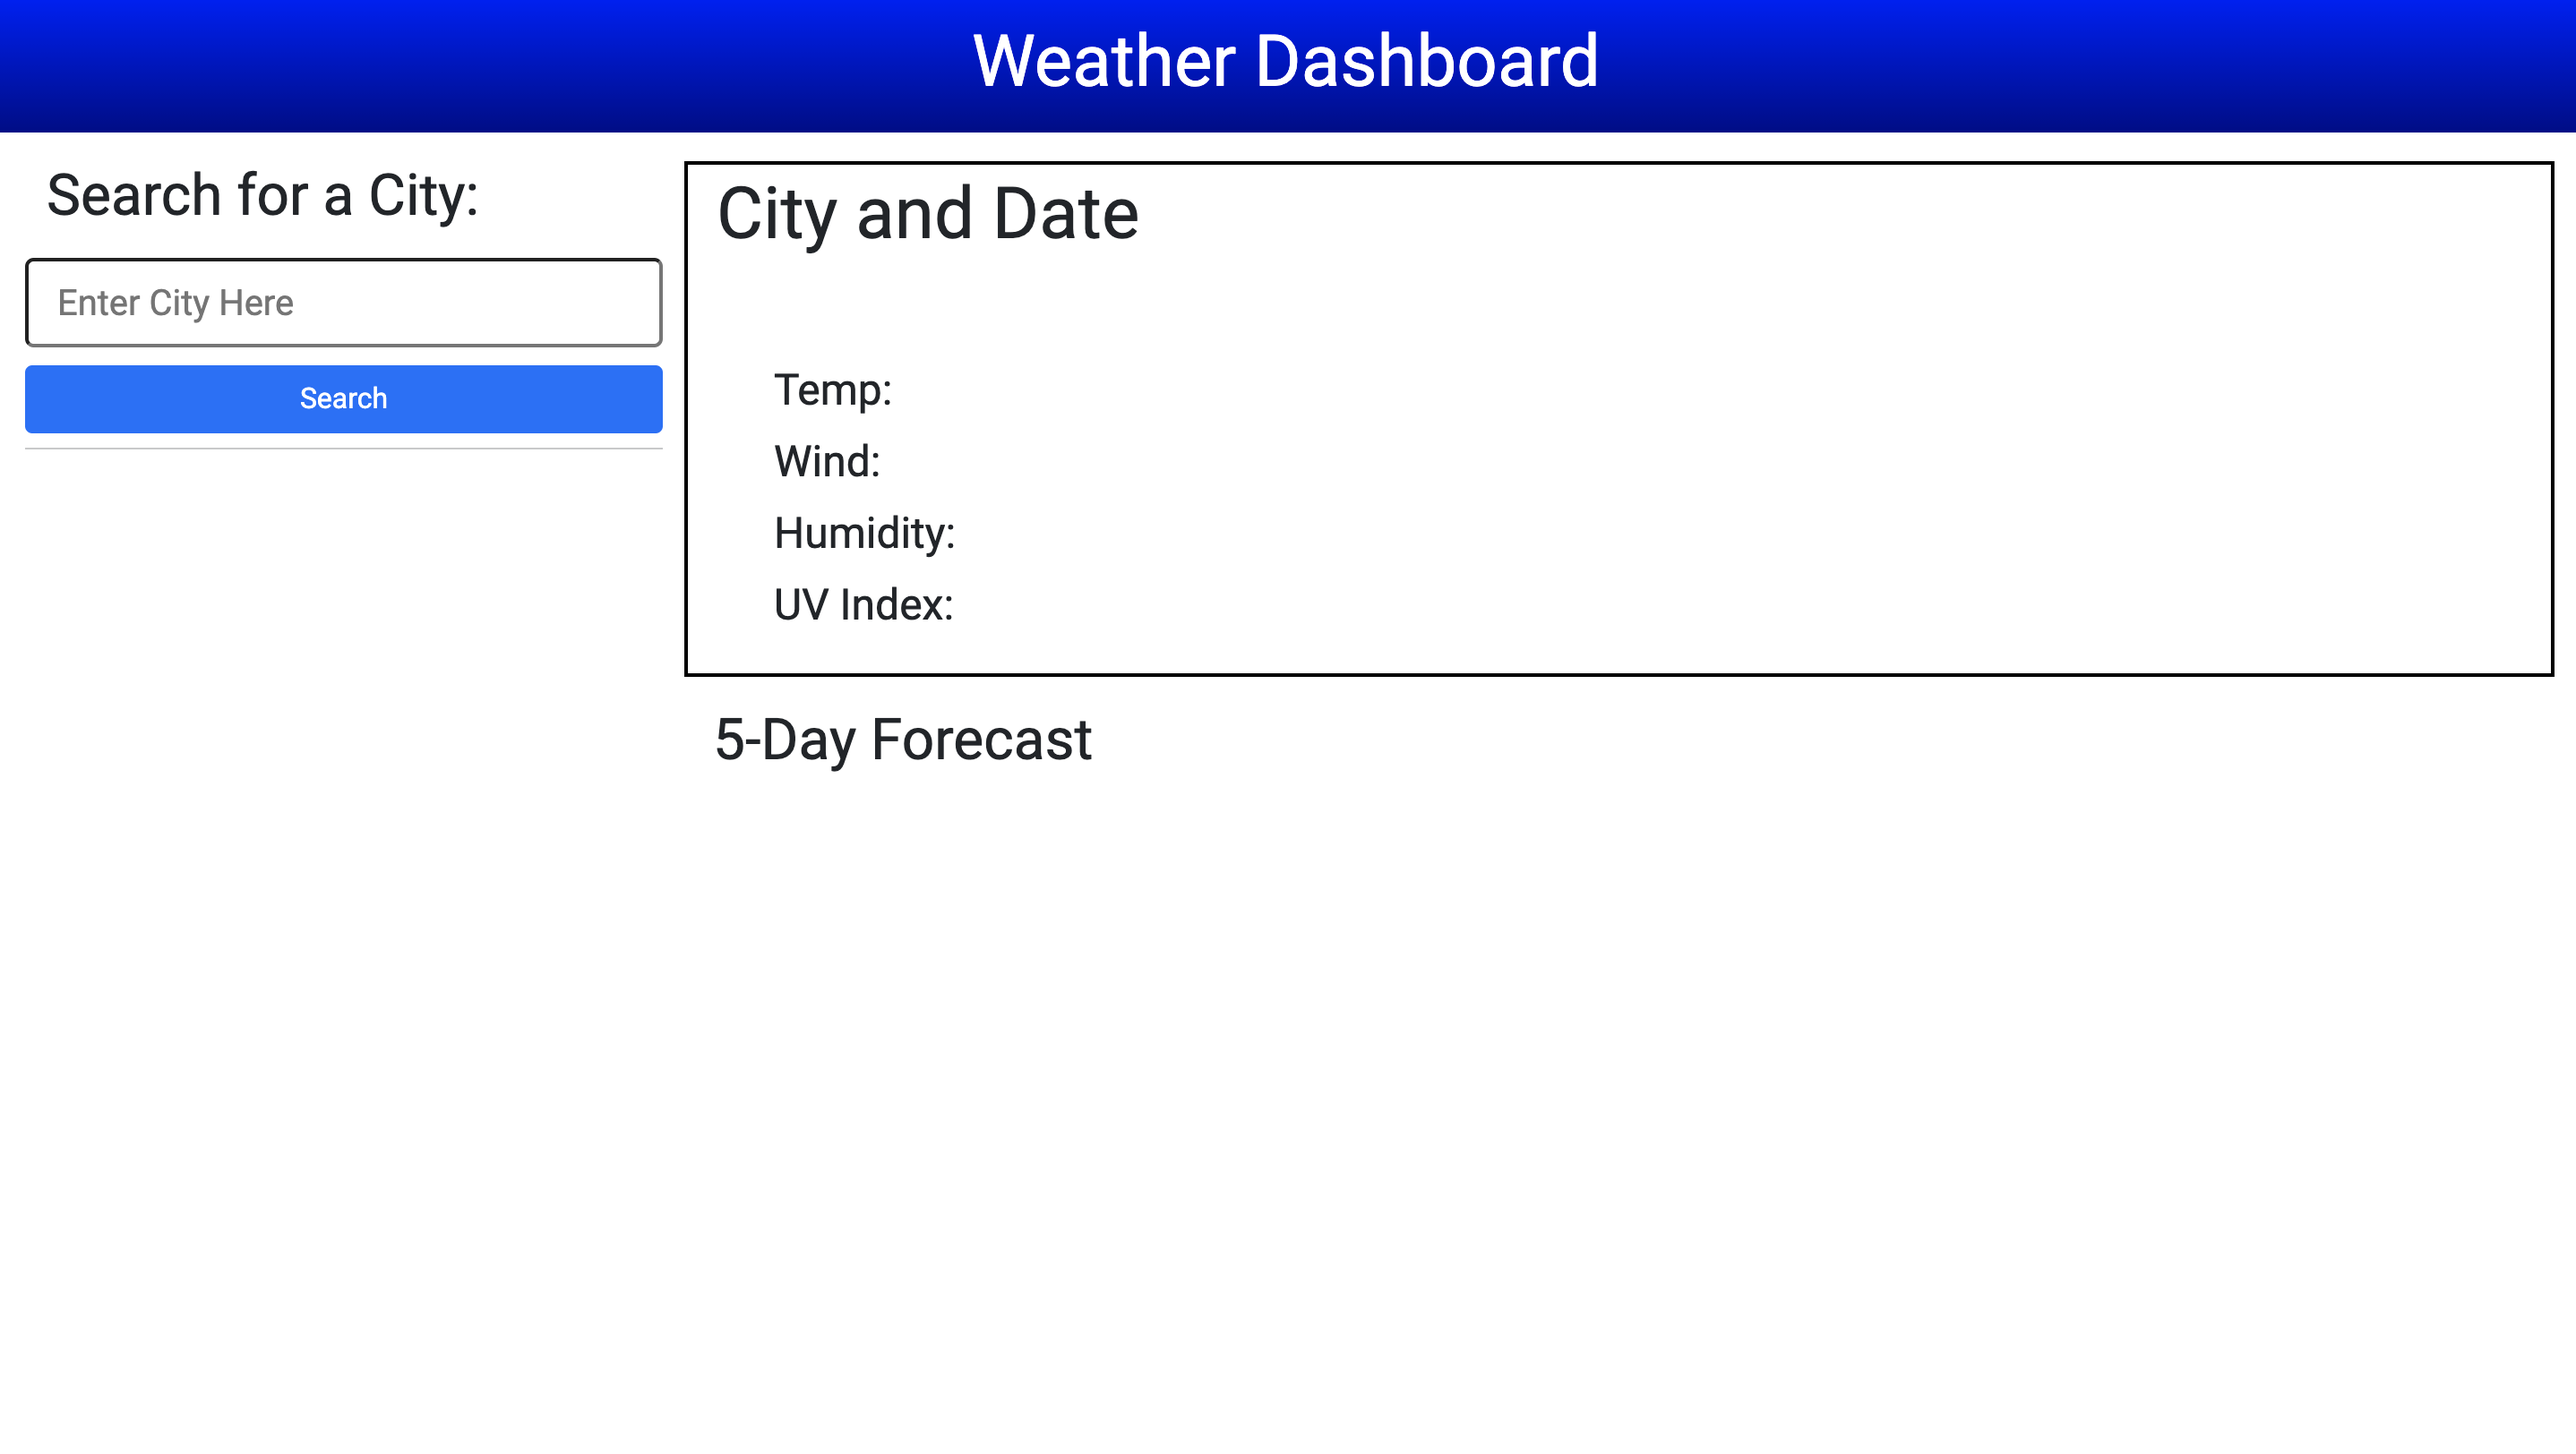
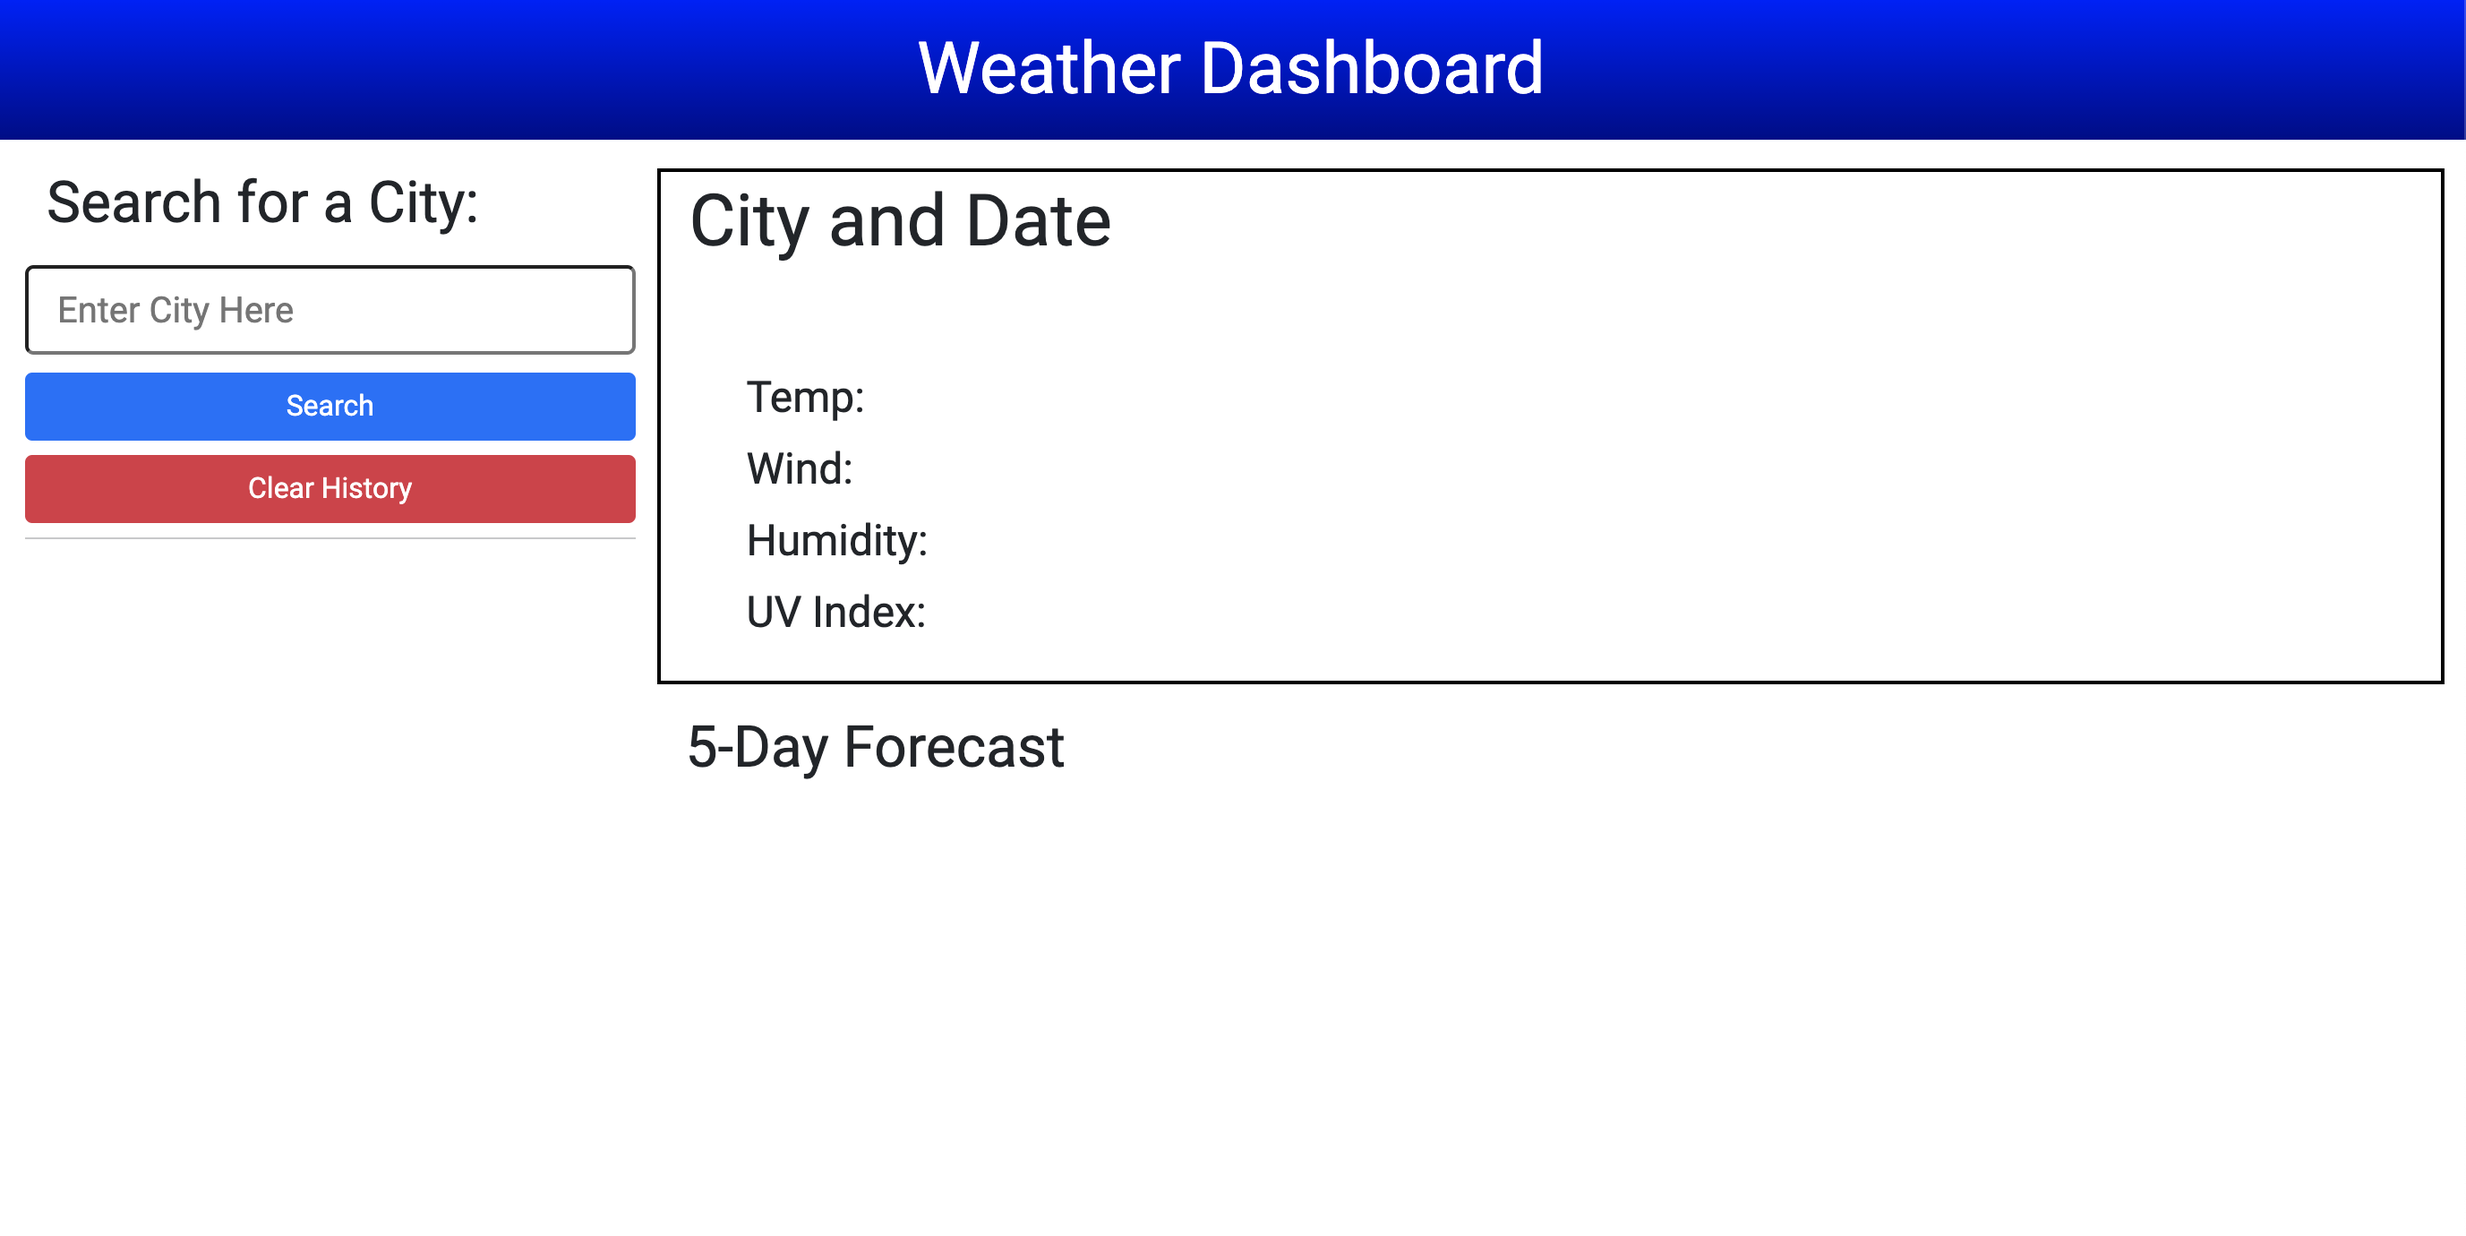
updated README to reflect changes with additional button and features

Changed region(s): [[0.0, 0.0, 1.0, 0.5297], [0.281, 0.592, 0.4372, 0.6232], [0.968, 0.5297, 0.9993, 0.5609]]

diff --git a/README.md b/README.md
@@ -1,8 +1,8 @@
 # Weather-Dashboard
 
-The Weather Dashboard was built to allow the user the ability to look up the current weather in their area.  When the user inputs the city and clicks the search button; the current forecast (temp, wind, humidity, UV index), and the upcoming 5 day forecast (temp, wind, humidity).  The UV Index highlights current sun exposure using colors depending on the severity. The past city entered will have buttons under the Search button in case the user wants to refer back to one of them (it will pull the current weather and 5-Day Forecast). 
+The Weather Dashboard was built to allow the user the ability to look up the current weather in their area. When the user inputs the city and clicks the search button; the current forecast (temp, wind, humidity, UV index), and the upcoming 5 day forecast (temp, wind, humidity). The UV Index highlights current sun exposure using colors depending on the severity. The past city entered will have buttons under the Search button in case the user wants to refer back to one of them (it will pull the current weather and 5-Day Forecast).
 
-## Table of Contents 
+## Table of Contents
 
 - [About the Project](#about-the-project)
 - [Installation](#installation)
@@ -14,31 +14,26 @@ The Weather Dashboard was built to allow the user the ability to look up the cur
 
 - This project was built to allow the user the ability to look up the current weather in their area.
 - The motiviation for this project is to use API's to fetch information and utilize past javascript and jquery skills.
-- Two API's were needed to access the weather information.  One to find the latitude and longitude of the city entered and the second to pull the weather information.
+- Two API's were needed to access the weather information. One to find the latitude and longitude of the city entered and the second to pull the weather information.
 - For every city entered, a button will be created to allow the user the ability to review the current weather forecast at any time.
-- The weather icons are provided to give the user a visual view of the  weather.
-- The UV Index is color coordinated to display the current condition for the user. 
-The Scale follows the EPA guidelines:
-    - **Low** (UV Index 0 to 2) - **Green** - *low risk from the sun for the average person.*
-    - **Moderate** (UV Index 3 to 5) - **Yellow** - *moderate risk from unprotected sun exposure.*
-    - **High** (UV Index 6 to 7) - **Orange** - *high risk from unprotected sun exposure, protection needed.*
-    - **Very High** (UV Index 8 to 10) - **Red** - *very high risk from unprotected sun exposure, take extra precaution.*
-    - **Extreme** (UV Index 11 and above) - **Magenta** - *extreme risk from unprotected sun exposure, take all protections because skin can burn in minutes.*
+- The weather icons are provided to give the user a visual view of the weather.
+- The UV Index is color coordinated to display the current condition for the user.
+  The Scale follows the EPA guidelines: - **Low** (UV Index 0 to 2) - **Green** - _low risk from the sun for the average person._ - **Moderate** (UV Index 3 to 5) - **Yellow** - _moderate risk from unprotected sun exposure._ - **High** (UV Index 6 to 7) - **Orange** - _high risk from unprotected sun exposure, protection needed._ - **Very High** (UV Index 8 to 10) - **Red** - _very high risk from unprotected sun exposure, take extra precaution._ - **Extreme** (UV Index 11 and above) - **Magenta** - _extreme risk from unprotected sun exposure, take all protections because skin can burn in minutes._
 - Built with the following technologies:
-    - [Bootstrap](https://getbootstrap.com/)
-    - [bulma-debug.css](https://gist.github.com/JuanVqz/105c4910ff711659059c99492ecd1a5c) used to debug CSS layout
-    - [Google Fonts](https://fonts.google.com/)
-    - [jQuery](https://jquery.com/)
-    - [Moments.js](https://momentjs.com/)
-    - [OpenWeather API](https://openweathermap.org/api)
-        - [Current Weather Data](https://openweathermap.org/api) API
-        - [One Call API](https://openweathermap.org/api) API
-    - HTML, CSS, and Javascript
+  - [Bootstrap](https://getbootstrap.com/)
+  - [bulma-debug.css](https://gist.github.com/JuanVqz/105c4910ff711659059c99492ecd1a5c) used to debug CSS layout
+  - [Google Fonts](https://fonts.google.com/)
+  - [jQuery](https://jquery.com/)
+  - [Moments.js](https://momentjs.com/)
+  - [OpenWeather API](https://openweathermap.org/api)
+    - [Current Weather Data](https://openweathermap.org/api) API
+    - [One Call API](https://openweathermap.org/api) API
+  - HTML, CSS, and Javascript
 - Comments have been added to the HTML, CSS and JS files to clarify each step and make future updates easier.
 
 ## Installation
 
-- Open [Weather Dashboard](https://twashke.github.io/Weather-Dashboard/) 
+- Open [Weather Dashboard](https://twashke.github.io/Weather-Dashboard/)
 - Or, open index.html in the internet browser.
 
 ## Usage
@@ -46,21 +41,21 @@ The Scale follows the EPA guidelines:
 - Go to [Deployed Github Page](https://twashke.github.io/Weather-Dashboard/)
 - Enter in the city and click the Search button (if the input is not a city, it will return an error to try again).
 - At the top the current weather will be displayed under the city name and date with the following information:
-    - Weather Icon of the current weather.
-    - Temperature in Fahrenheit.
-    - Wind Speed in miles per hour (MPH).
-    - Humidity percentage.
-    - UV Index (changes colors depending on EPA guidelines).
+  - Weather Icon of the current weather.
+  - Temperature in Fahrenheit.
+  - Wind Speed in miles per hour (MPH).
+  - Humidity percentage.
+  - UV Index (changes colors depending on EPA guidelines).
 - The 5-Day Forecast will be displayed under the date of the next five days with the following information:
-    - Weather Icon of the current weather.
-    - Temperature in Fahrenheit.
-    - Wind Speed in miles per hour (MPH).
-    - Humidity percentage.
+  - Weather Icon of the current weather.
+  - Temperature in Fahrenheit.
+  - Wind Speed in miles per hour (MPH).
+  - Humidity percentage.
 - Previous cities chosen will be displayed underneath the Search button, if the user presses one of the past entries it will again provide the current weather and 5-Day forecast.
-- Refresh the screen to remove past city entry buttons.
+- Use the **Clear History** button to clear out history.
 
 Weather Dashboard Demo \
-![Weather Dashboard Demo](Assets/images/weather-dashboard.gif) \
+![Weather Dashboard Demo](Assets/images/search-history.gif) \
 \
 Start Page for Weather Dashboard \
 ![Weather Dashboard Start](Assets/images/opening-page.png) \
@@ -71,15 +66,17 @@ Invalid User Input Error \
 Current and 5-Day Forecast \
 ![Weather Forecast](Assets/images/weather-forecast.png) \
 \
-Weather Dashboard with Multiple Entries \
-![Weather Dashbord](Assets/images/weather-dashboard.png) 
-
+Weather Dashboard Previous Search Buttons \
+![Previous Search](Assets/images/previous-search.gif) \
+\
+Clear History Button \
+![Clear History Button](Assets/images/clear-button.gif)
 
 ## Credit
 
 - [OpenWeather API](https://openweathermap.org/api)
-    - Current Weather Data (for latitude and longitude)
-    - One Call API (for current weather and five day forecast)
+  - Current Weather Data (for latitude and longitude)
+  - One Call API (for current weather and five day forecast)
 
 ## License
 
